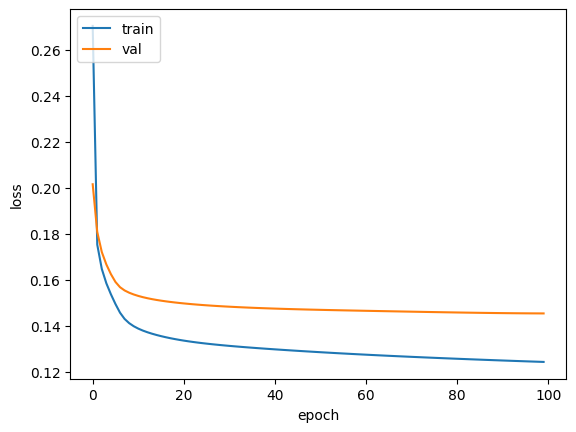
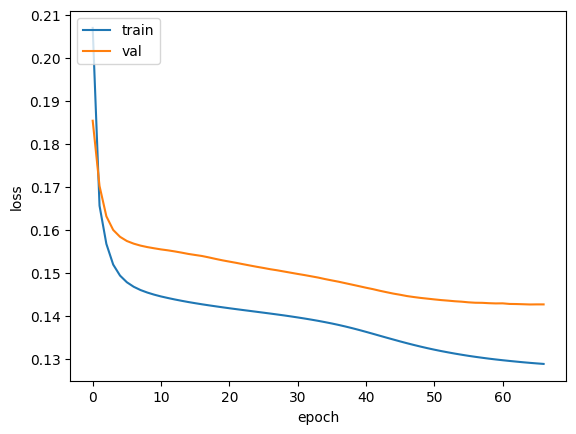
tuned model2 + finished writeup

diff --git a/README.md b/README.md
@@ -134,15 +134,15 @@ For this model, we essentially use an RNN to generate a rich encoding of each te
 While our labels and loss function still worked well for our second model, we had to somewhat change our data to take full advantage of the RNN's capability to work with time-series data. Essentially, instead of recording the current game's details (such as day of week, month, and one-hot encodings of which teams are playing), we pass in the details of the last k games played for each team, including the result of that game (so for a single game, we might have: day of week, one-hot encoding of opponent team, final score). This allows the RNN to find out how well the team has done recently, and use that to predict how well each team will do in the current game.
 
 #### Training vs Test Error
-Our final training error (MSE) was 0.1245, and our final test error was 0.1652. The test error is higher than the training error as expected, since it is much more likely for the model to perform better with data that it has seen before. Compared to model 1's training error of 0.1871 and test error of 0.2675, model 2 performed significantly better. Out of the 5 prediction targets, moneyLine again had the lowest error (train, val, and test) while score again had the highest error (train, val, and test). This is most likely due to the same reasons as before, where score was standardized rather than normalized, making it have a much larger range, and moneyLine is both more predictable and more clustered around the center.
+Our final training error (MSE) was 0.1288, and our final test error was 0.1595. The test error is higher than the training error as expected, since it is much more likely for the model to perform better with data that it has seen before. Compared to model 1's training error of 0.1871 and test error of 0.2675, model 2 performed significantly better. Out of the 5 prediction targets, moneyLine again had the lowest error (train, val, and test) while score again had the highest error (train, val, and test). This is most likely due to the same reasons as before, where score was standardized rather than normalized, making it have a much larger range, and moneyLine is both more predictable and more clustered around the center.
 
 #### Fitting graph
-Even after running for 100 epochs, our model still didn't overfit, although it did appear to have stopped improving in terms of validation loss. Rather than having validation loss go back up, our model's validation loss just flatlined towards the end. Compared to the first model, which did start overfitting in the last few epochs (validation loss going up while training loss went down), our 2nd model did not overfit.
+Our model started overfitting around the 65th epoch, prompting our early stopping to stop the model early. This trend is also visible on the graph, as the continued decrease in both training and validation losses stopped shortly before epoch 65, when only the training loss started decreasing and the validation loss started slightly increasing. Compared to the first model, which did start overfitting in the first few epochs, our 2nd model only started overfitting after many more epochs.
 
 ![Train_Val_Loss](model2_history.png)
 
 #### Hyperparameter tuning, K-fold cross-validation, etc.
-#TODO
+After completing hyperparameter tuning by doing a randomized search of 20 trials, we were able to reduce the validation MSE from 0.1454 to 0.1427. Interestingly, the training error increased from 0.1245 to 0.1288, but this may be attributable to the tuned model being more generalized. The final parameters that yielded these results had a mix of different activation functions, and an RNN input sequence length of 3, meaning that only the past 3 games (from this season) for each team was considered. We did not perform K-fold cross-validation during the random search as that would take multiple hours, and the only feature expansion used for this model was taking the sin of date-related columns as specified in the data preprocessing section.
 
 #### Next model
 For our next model, we plan on using a Convolutional Neural Network that convolves over the same feature for the previous k games played by each team. This model will function somewhat similarly to the RNN, using the past k games for each team to create some kind of rich encoding of that team's recent history, and using those encodings to make our final predictions through a few dense layers. We switched to this model instead of the SARIMA model that we were planning on using because ultimately we wanted to explore models that were more relevant to this course, and because we believed that the Convolutional layers might be able to capture unique patterns that may not simply be a moving average (which a SARIMA would rely on).
@@ -151,4 +151,4 @@ For our next model, we plan on using a Convolutional Neural Network that convolv
 For all predictions targets except moneyLine, our train loss was less than our validation loss which was less than our test loss. For moneyLine, train loss was less than test loss which was less than val loss. This weird trend might be due to moneyLine being inherently predictable, or not well captured by our model structure. It might also be due to it's relatively low errors in general making not as important of a target to minimize for our model than our other targets, which all had higher errors in general. 
 
 #### Conclusion
-Overall, the errors for each of our prediction targets were lower than what we had for our first model, making the 2nd model a definite upgrade over the 1st model. The test error of 0.1652 was also significantly less than model 1's test error of 0.2675. We conclude that it has excellent predictive power, as signaled by its relatively lower losses for each prediction target. To further improve it, we could spend more time tuning the hyperparameters, or adding more RNN layers/increasing sequence length. We could also try expanding more of our features to see if that might help capture some previously unnoticed trends.
+Overall, the errors for each of our prediction targets were lower than what we had for our first model, making the 2nd model a definite upgrade over the 1st model. The test error of 0.1595 was also significantly less than model 1's test error of 0.2675. We conclude that it has excellent predictive power, as signaled by its relatively lower losses for each prediction target. To further improve it, we could spend more time tuning the hyperparameters, or adding more RNN layers. We could also try expanding more of our features to see if that might help capture some previously unnoticed trends.
